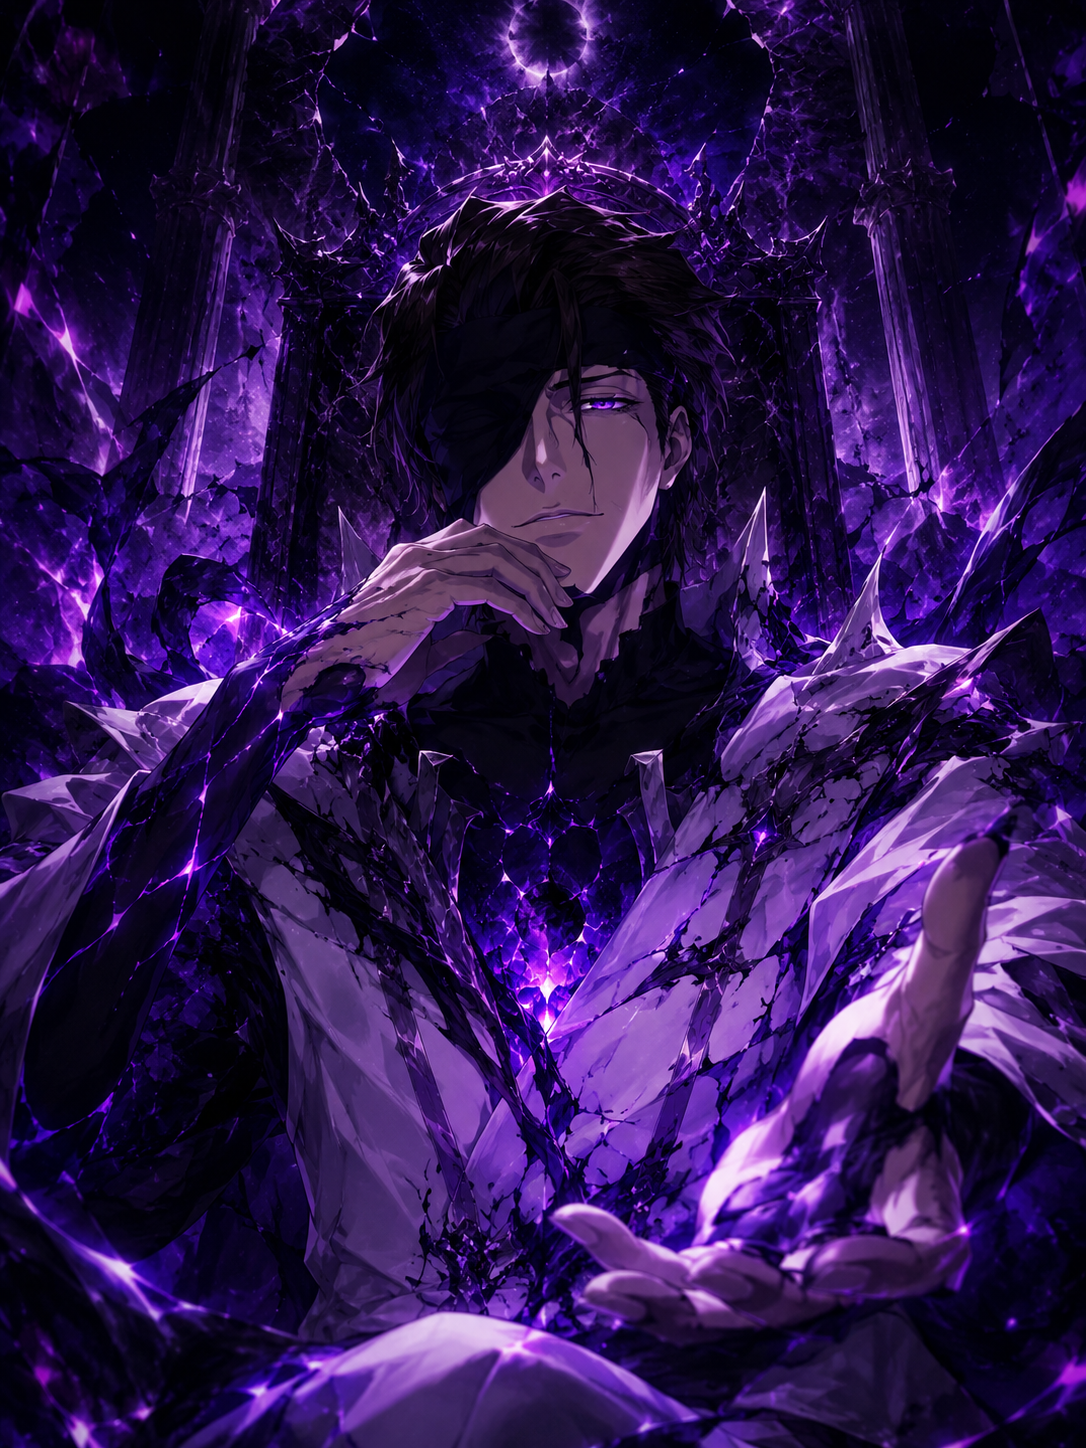
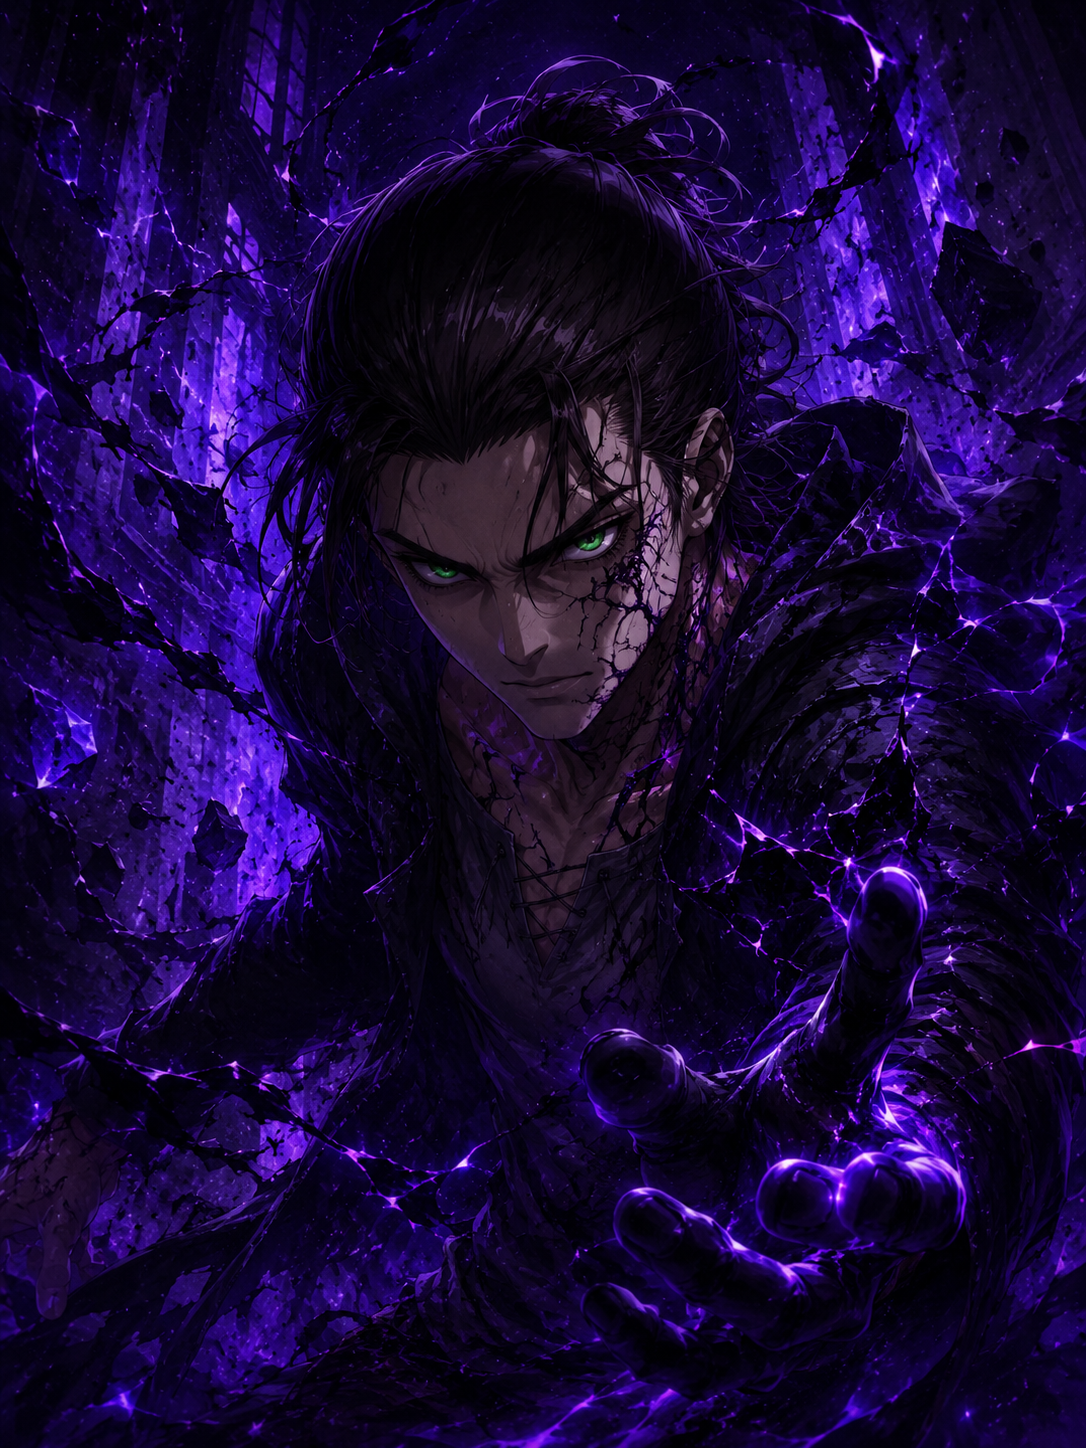
Add files via upload

diff --git a/scripts/link-corrupted-10-event.js b/scripts/link-corrupted-10-event.js
@@ -1,0 +1,91 @@
+require('dotenv').config();
+const { PrismaClient, Prisma } = require('@prisma/client');
+const prisma = new PrismaClient();
+
+const base = 'https://raw.githubusercontent.com/taurusx12/VoidRoll/main/public/images/events/corrupted';
+
+function fieldsForCharacter() {
+  const model = Prisma.dmmf.datamodel.models.find(m => m.name === 'Character');
+  return new Set(model.fields.filter(f => f.kind === 'scalar' || f.kind === 'enum').map(f => f.name));
+}
+function pick(data, fields) {
+  const out = {};
+  for (const [k,v] of Object.entries(data)) if (fields.has(k)) out[k]=v;
+  return out;
+}
+function makeId(name) {
+  return 'char_corrupted_' + name.toLowerCase().replace(/[^a-z0-9]+/g,'_') + '_' + Date.now();
+}
+
+const units = [
+  { base:['Itachi Uchiha','Itachi'], corrupted:'Corrupted Itachi Uchiha', anime:'Naruto', file:'Corrupted_Itachi.png', baseRarity:'MYTHIC', power:1480000, role:'CONTROL', element:'VOID' },
+  { base:['Sousuke Aizen','Sosuke Aizen','Aizen'], corrupted:'Corrupted Aizen', anime:'Bleach', file:'Corrupted_Aizen.png', baseRarity:'DIVINE', power:1550000, role:'SUPPORT', element:'VOID' },
+  { base:['Ainz Ooal Gown','Ainz'], corrupted:'Corrupted Ainz Ooal Gown', anime:'Overlord', file:'Corrupted_Ainz.png', baseRarity:'DIVINE', power:1570000, role:'SUMMONER', element:'VOID' },
+  { base:['Rimuru Tempest','Rimuru'], corrupted:'Corrupted Rimuru Tempest', anime:'That Time I Got Reincarnated as a Slime', file:'Corrupted_Rimuru.png', baseRarity:'MYTHIC', power:1500000, role:'SUMMONER', element:'VOID' },
+  { base:['Makima'], corrupted:'Corrupted Makima', anime:'Chainsaw Man', file:'Corrupted_Makima.png', baseRarity:'MYTHIC', power:1490000, role:'CONTROL', element:'VOID' },
+  { base:['Lelouch Lamperouge','Lelouch'], corrupted:'Corrupted Lelouch Lamperouge', anime:'Code Geass', file:'Corrupted_Lelouch.png', baseRarity:'MYTHIC', power:1500000, role:'CONTROL', element:'VOID' },
+  { base:['Satoru Gojo','Satoru Gojou','Gojo','Gojou'], corrupted:'Corrupted Satoru Gojo', anime:'Jujutsu Kaisen', file:'Corrupted_Gojo.png', baseRarity:'DIVINE', power:1560000, role:'DPS', element:'VOID' },
+  { base:['Eren Yeager','Eren Jaeger','Eren'], corrupted:'Corrupted Eren Yeager', anime:'Attack on Titan', file:'Corrupted_Eren.png', baseRarity:'MYTHIC', power:1470000, role:'DPS', element:'VOID' },
+  { base:['Saber','Artoria Pendragon','Altria Pendragon'], corrupted:'Corrupted Saber', anime:'Fate', file:'Corrupted_Saber.png', baseRarity:'DIVINE', power:1510000, role:'TANK', element:'VOID' },
+  { base:['All Might','Toshinori Yagi'], corrupted:'Corrupted All Might', anime:'My Hero Academia', file:'Corrupted_AllMight.png', baseRarity:'MYTHIC', power:1460000, role:'TANK', element:'VOID' },
+];
+
+async function findFirstByNames(names) {
+  for (const n of names) {
+    const c = await prisma.character.findFirst({ where:{ name:{ contains:n }, active:true }, orderBy:{ basePower:'desc' } }).catch(()=>null);
+    if (c) return c;
+  }
+  return null;
+}
+
+async function main(){
+  const fields = fieldsForCharacter();
+  console.log('VoidRoll Corrupted Event: linking 10 corrupted units...');
+
+  for (const u of units) {
+    const baseChar = await findFirstByNames(u.base);
+    if (baseChar) {
+      await prisma.character.update({
+        where:{ id:baseChar.id },
+        data:pick({ rarity:u.baseRarity, active:true, limited:false, banner:null }, fields)
+      }).catch(()=>{});
+      console.log(`Base ${u.base[0]} => ${u.baseRarity}`);
+    } else {
+      console.log(`Base not found for ${u.base[0]} (will still create/update corrupted).`);
+    }
+
+    let corrupted = await prisma.character.findFirst({ where:{ name:{ contains:u.corrupted } } }).catch(()=>null);
+    const data = pick({
+      name:u.corrupted,
+      anime:(baseChar && baseChar.anime) || u.anime,
+      rarity:'SECRET',
+      basePower:u.power,
+      baseFarm:Math.max(Number(baseChar?.baseFarm || 0), 180000),
+      baseLuck:Math.max(Number(baseChar?.baseLuck || 0), 55000),
+      imageUrl:`${base}/${u.file}`,
+      active:true,
+      limited:true,
+      banner:'CORRUPTED_EVENT',
+      globalPrint:0,
+      createdAt:new Date()
+    }, fields);
+
+    if (corrupted) {
+      await prisma.character.update({ where:{ id:corrupted.id }, data });
+      console.log(`Updated ${u.corrupted}`);
+    } else {
+      await prisma.character.create({ data:pick({ id:makeId(u.corrupted), ...data }, fields) });
+      console.log(`Created ${u.corrupted}`);
+    }
+  }
+
+  console.log('Final corrupted list:');
+  const rows = await prisma.character.findMany({
+    where:{ name:{ startsWith:'Corrupted ' }, active:true },
+    select:{ id:true, name:true, anime:true, rarity:true, imageUrl:true },
+    orderBy:{ basePower:'desc' }
+  });
+  console.table(rows);
+  console.log('✅ Done. Push images to GitHub first, then run this script on Render.');
+}
+main().catch(e=>{ console.error(e); process.exit(1); }).finally(()=>prisma.$disconnect());
